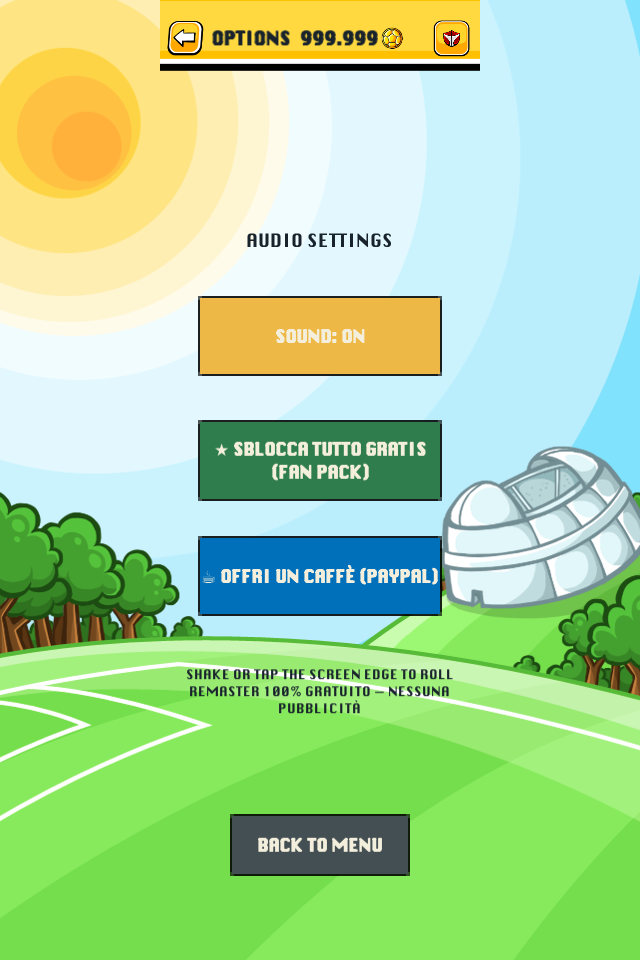
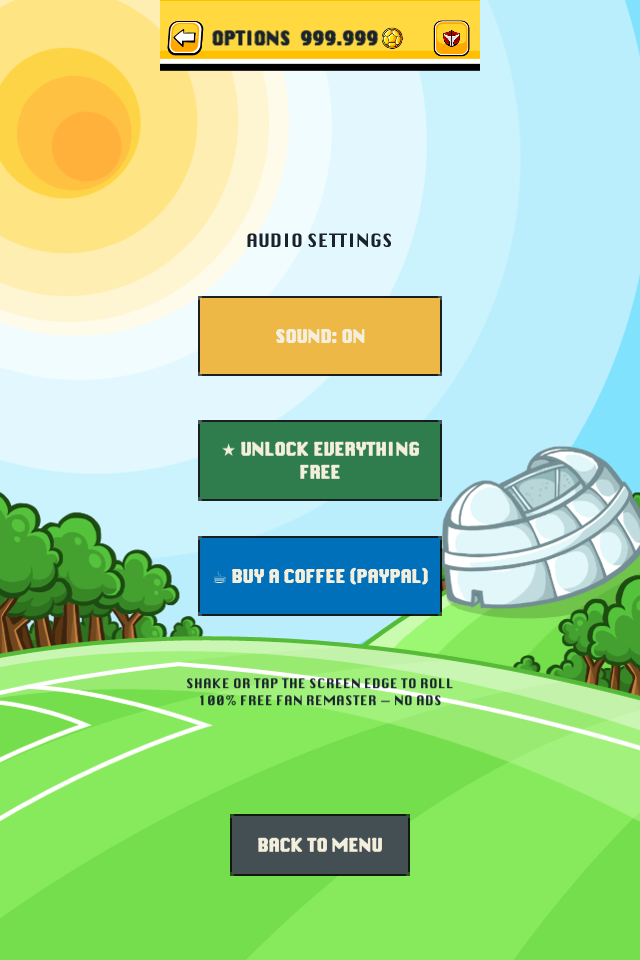
feat: localize entire UI to English and update PayPal link to paypal.me/Freekara3

Changed region(s): [[0.2812, 0.6875, 0.7188, 0.75], [0.3438, 0.4375, 0.6562, 0.5], [0.3125, 0.5938, 0.6875, 0.625]]

diff --git a/Assets/Scripts/DiceSoccerBootstrap.cs b/Assets/Scripts/DiceSoccerBootstrap.cs
@@ -336,17 +336,17 @@ namespace DiceSoccer
             AddButton(_soundEnabled ? "SOUND: ON" : "SOUND: OFF", _safeArea, Gold,
                 new Vector2(0.5f, 0.65f), new Vector2(0.75f, 0.08f), ToggleSound);
 
-            AddButton("★ SBLOCCA TUTTO GRATIS (FAN PACK)", _safeArea, Grass,
+            AddButton("★ UNLOCK EVERYTHING FREE", _safeArea, Grass,
                 new Vector2(0.5f, 0.52f), new Vector2(0.75f, 0.08f), () =>
                 {
                     UnlockAllContent(false);
                     ShowDonationModal();
                 });
 
-            AddButton("☕ OFFRI UN CAFFÈ (PAYPAL)", _safeArea, new Color32(0, 112, 186, 255),
+            AddButton("☕ BUY A COFFEE (PAYPAL)", _safeArea, new Color32(0, 112, 186, 255),
                 new Vector2(0.5f, 0.40f), new Vector2(0.75f, 0.08f), ShowDonationModal);
 
-            AddText("SHAKE OR TAP THE SCREEN EDGE TO ROLL\nREMASTER 100% GRATUITO — NESSUNA PUBBLICITÀ",
+            AddText("SHAKE OR TAP THE SCREEN EDGE TO ROLL\n100% FREE FAN REMASTER — NO ADS",
                 _safeArea, 13, Ink, new Vector2(0.08f, 0.22f), new Vector2(0.92f, 0.34f));
 
             AddButton("BACK TO MENU", _safeArea, new Color32(68, 79, 84, 255),
@@ -429,22 +429,22 @@ namespace DiceSoccer
             title.fontStyle = FontStyle.Bold;
 
             var desc = AddText(
-                "Dice Soccer Remaster è un tributo 100% gratuito e no-profit per preservare questo classico del 2012 su Android moderno.\n\n" +
-                "Tutti i 96 personaggi, kit, monete e stagioni sono completamente sbloccati e gratuiti per tutti!\n\n" +
-                "Se apprezzi il remake e desideri supportare il lavoro svolto, puoi offrire un caffè con una donazione libera su PayPal:",
+                "Dice Soccer Remaster is a 100% free non-profit fan project preserving this 2012 iOS classic on modern Android.\n\n" +
+                "All 96 authentic players, kits, coins and seasons are fully unlocked and free for everyone!\n\n" +
+                "If you enjoy the remaster and wish to support the work, feel free to buy a coffee via PayPal:",
                 box.transform, 13, Ink,
                 new Vector2(0.08f, 0.36f), new Vector2(0.92f, 0.82f));
             desc.alignment = TextAnchor.UpperCenter;
 
             // PayPal Button
-            AddButton("☕ DONA CON PAYPAL", box.transform, new Color32(0, 112, 186, 255),
+            AddButton("☕ BUY A COFFEE (PAYPAL)", box.transform, new Color32(0, 112, 186, 255),
                 new Vector2(0.5f, 0.28f), new Vector2(0.80f, 0.08f), () =>
                 {
-                    Application.OpenURL("https://www.paypal.com/paypalme/");
+                    Application.OpenURL("https://paypal.me/Freekara3");
                 });
 
             // Re-unlock Button
-            AddButton("★ SBLOCCA TUTTO GRATIS", box.transform, Grass,
+            AddButton("★ UNLOCK EVERYTHING FREE", box.transform, Grass,
                 new Vector2(0.5f, 0.18f), new Vector2(0.80f, 0.08f), () =>
                 {
                     UnlockAllContent(false);
@@ -452,7 +452,7 @@ namespace DiceSoccer
                 });
 
             // Close Button
-            AddButton("CHIUDI", box.transform, new Color32(68, 79, 84, 255),
+            AddButton("CLOSE", box.transform, new Color32(68, 79, 84, 255),
                 new Vector2(0.5f, 0.08f), new Vector2(0.50f, 0.06f), () =>
                 {
                     Destroy(backdrop.gameObject);
@@ -520,16 +520,16 @@ namespace DiceSoccer
 
             // Instructions Box
             var infoBox = AddResourceImage("InfoBox", "Original/sprites/AchievementsSS4/LongDialogBox", _safeArea,
-                new Vector2(0.08f, 0.27f), new Vector2(0.92f, 0.44f));
+                new Vector2(0.08f, 0.25f), new Vector2(0.92f, 0.44f));
             infoBox.preserveAspect = false;
 
             var infoText = AddText(
-                "Sfida un amico sullo stesso schermo!\n\n" +
-                "• P1 tocca il lato sinistro dello schermo per tirare i dadi Rossi\n" +
-                "• P2 tocca il lato destro dello schermo per tirare i dadi Blu\n" +
-                "• Nessun server richiesto, gioca ovunque offline!",
-                infoBox.transform, 13, Ink,
-                new Vector2(0.06f, 0.06f), new Vector2(0.94f, 0.94f));
+                "Challenge a friend on this device!\n\n" +
+                "• P1 taps the left half of the screen to roll Red dice\n" +
+                "• P2 taps the right half of the screen to roll Blue dice\n" +
+                "• No server required — play anywhere completely offline!",
+                infoBox.transform, 12, Ink,
+                new Vector2(0.06f, 0.05f), new Vector2(0.94f, 0.88f));
             infoText.alignment = TextAnchor.MiddleCenter;
 
             // Start Match Button
@@ -2254,7 +2254,7 @@ namespace DiceSoccer
                     new Vector2(0.32f, 0.15f), new Vector2(0.70f, 0.85f));
 
                 var capturedOption = option;
-                AddButton("GRATIS", box.transform, Grass,
+                AddButton("FREE", box.transform, Grass,
                     new Vector2(0.83f, 0.5f), new Vector2(0.24f, 0.48f), () =>
                     {
                         _careerCash += capturedOption.coins;
@@ -2266,7 +2266,7 @@ namespace DiceSoccer
 
             RenderShopPagination(maxPages, () => ShowShop(), 0.22f);
 
-            AddButton("☕ DONA CON PAYPAL", _safeArea, new Color32(0, 112, 186, 255),
+            AddButton("☕ BUY A COFFEE (PAYPAL)", _safeArea, new Color32(0, 112, 186, 255),
                 new Vector2(0.5f, 0.135f), new Vector2(0.75f, 0.055f), ShowDonationModal);
         }
 
